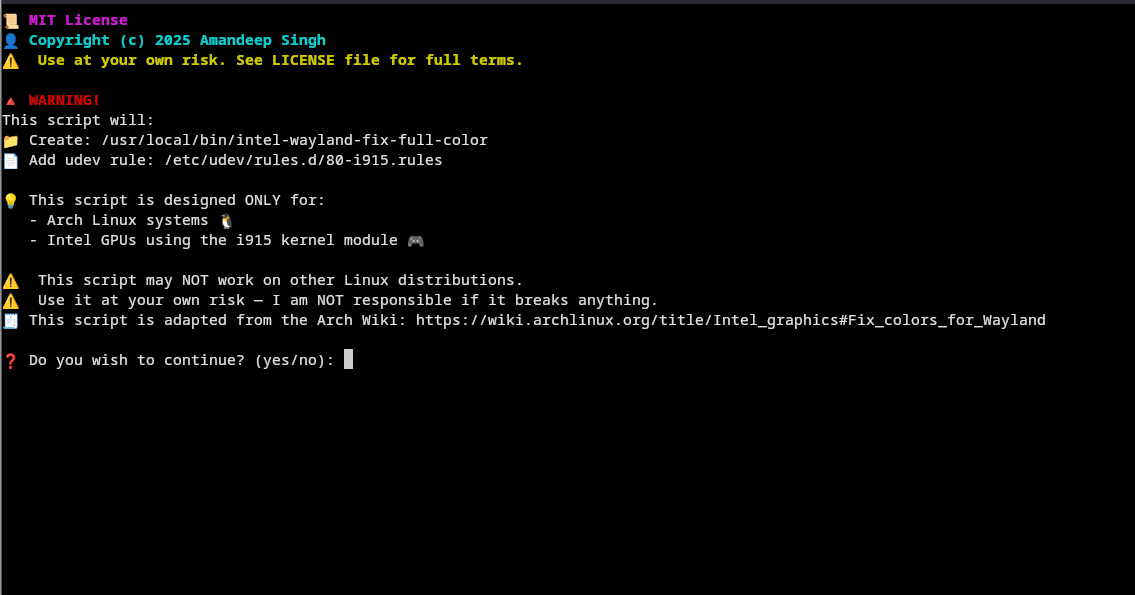
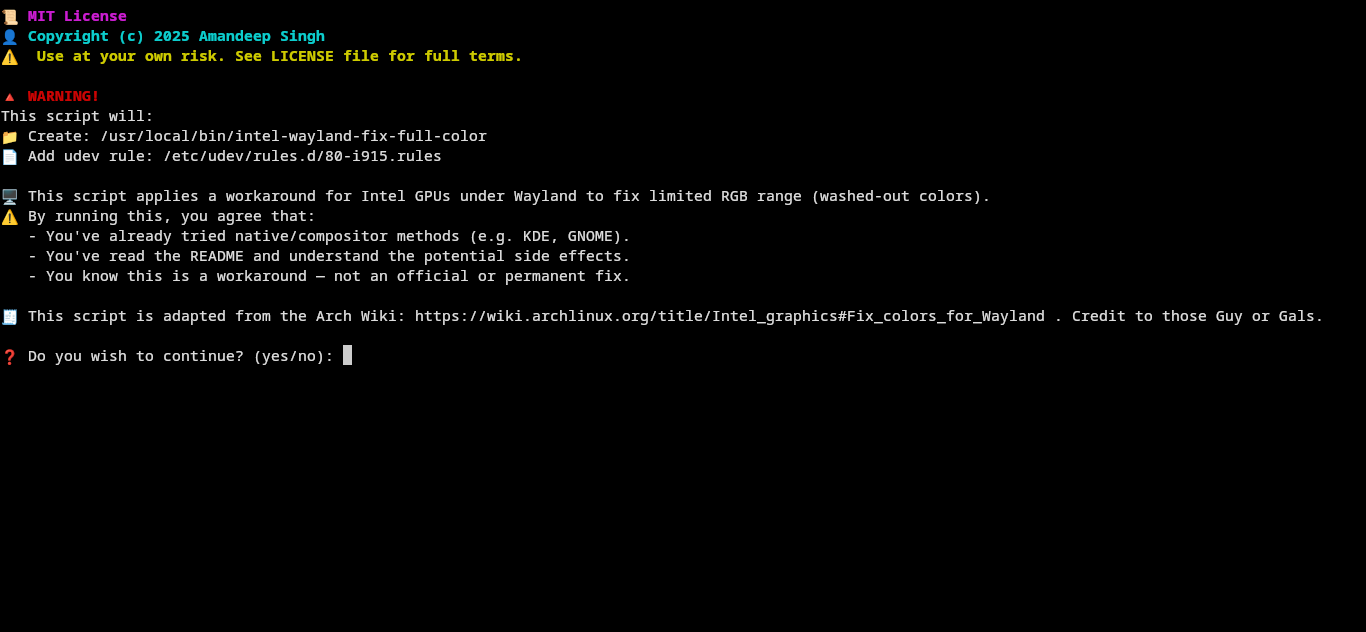
Updated README, Added Disclaimer

Changed region(s): [[0.0, 0.0, 1.0, 0.6353]]

diff --git a/README.md b/README.md
@@ -1,20 +1,36 @@
 # Intel-wayland-full-color-fix
 
-**Tired of your screen looking like a 2003 washed-out LCD? This fixes full RGB range on Intel iGPUs under Wayland.**\
+**By default some monitors might not be recognized properly by the Intel GPU and have washed out colors because it's not in full-range RGB mode.**
+
+This script is adapted from the [Arch Wiki - Intel Graphics](https://wiki.archlinux.org/title/Intel_graphics#Fix_colors_for_Wayland). Credit to those Guys or Gals.
+
+---
+## ⚠ Disclaimer
+
+This script is a workaround, not an official or guaranteed fix. It modifies low-level GPU connector properties via `proptest` to force full-range RGB output on Intel GPUs under Wayland — specifically to resolve the washed-out color issue that affects some displays.
+
+❗ This approach may bypass compositor-level logic and is considered fragile by design. It’s intended for setups where:
+- The compositor does not offer a full RGB toggle.
+- Your monitor is misidentified (e.g. as a TV or limited-range device)
+- You’ve confirmed that native options (like KDE Plasma 6 settings) do not resolve the issue.
+
+🛠 Although generally safe, this script does modify live GPU connector settings. Be aware of the following:
+- Display flickering or temporary black screens may occur when applying changes.
+- Forcing full RGB on displays that expect limited RGB (such as TVs) can cause crushed blacks or incorrect colors.
+- This workaround may conflict with future compositor updates that add proper RGB handling.
 
 ---
 
-## ⚠ Disclaimer First (Seriously)
+## ✅ Best Practices (Recommended)
+Try native compositor settings first
+ - KDE Plasma 5.24+ (Kwin): Use the Display Configration in System settings to toggle RGB range.
+ - GNOME: Add `<rgbrange>full</rgbrange>` to `~/.config/monitors.xml` ([Arch Wiki](https://wiki.archlinux.org/title/Intel_graphics#Fix_colors_for_Wayland))
+ - Hyprland (wlroots-based Wayland compositor): Currently does not offer a built-in full-range RGB toggle.
+ - Other compositor: Cheak the Official Doucmention or Wiki.
+ 
+Use `edid-decode` or `libdisplay-info` to confirm your display advertises full RGB.
 
-This script is based on info from the [Arch Wiki](https://wiki.archlinux.org/title/Intel_graphics#Fix_colors_for_Wayland). Use at your own risk.
-
-- 🧠 Only for **Intel GPUs** using the `i915` driver
-- 🐧 Designed for **Wayland sessions**, especially **Hyprland**
-- 🧪 **KDE Plasma 6** has native support (check Display Settings first)
-- 📚 **GNOME** users: might work, but check the [Wiki](https://wiki.archlinux.org/title/Intel_graphics#Fix_colors_for_Wayland) first
-- ❓ On **Arch-based distros**, your mileage may vary (especially with modified kernels)
-- 🧪 On **Non-Arch distros** like Debian/Fedora/etc — feel free to try, but don’t expect miracles
-- 💥 I’m not responsible for broken displays, failed boots, or your system spiraling into an existential crisis
+Avoid using on setups where the display expects limited RGB (e.g. TVs, Old Moniters).  
 
 ---
 
@@ -27,24 +43,11 @@ This script is based on info from the [Arch Wiki](https://wiki.archlinux.org/tit
 
 ---
 
-## 📦 Requirements
-
-| What               | Why                                  |
-| ------------------ | ------------------------------------ |
-| Arch Linux         | That’s what this was built on        |
-| Intel GPU          | Specifically using the `i915` module |
-| Wayland            | X11 users, this isn’t for you        |
-| `proptest`         | Comes with `libdrm`                  |
-| `sudo`             | This script needs system access      |
-
----
-
 ## ⚙ Installation Guide
-
+Apply this script only if you’ve ruled out all standard methods.  
 ```bash
 git clone "https://github.com/UnknownHuman2/Intel-wayland-full-color-fix.git"
 cd Intel-wayland-full-color-fix
-
 chmod +x install_intel_color_fix.sh
 ./install_intel_color_fix.sh
 ```
@@ -80,19 +83,17 @@ This is how the script politely asks for your permission before touching your sy
 ![CLI Screenshot](images/cli_script_preview.png)
 
 ---
+## 👥 Credit & Support
 
-## 🧠 Why This Exists
+**📝 Arch Wiki - Guys and Gals**
+-  For documenting the `proptest` workaround in the first place.
 
-It took me **6 months** of staring at a washed-out screen before I found the problem. Intel defaults to *limited RGB* on Wayland. This script applies the fix **automatically** using tools from the Arch Wiki.
-
-No screenshots here. Your **eyes** will be the judge.
+**👤 Reddit**
+- User from `r/Hyprland` who helped identify bugs and edge cases, and highlighted important behavior on wlroots-based setups.
+- Another helpful user from `r/archlinux` who provided critical feedback on potential risks and encouraged safer practices.
 
 ---
 
 ## 📝 License
 
-[MIT](LICENSE) — because open-source legalese should be one page, not a trilogy.  
-Use it, modify it, make memes with it — just credit me.  
-If it breaks your system, monitor, or soul — don’t sue me. You’ve been warned.
-
----
+[MIT](LICENSE) – standard "use at your own risk" license.
